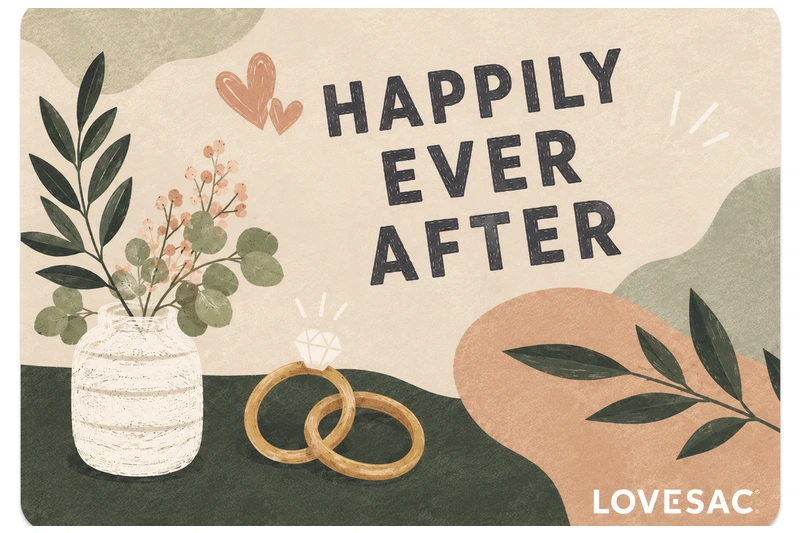
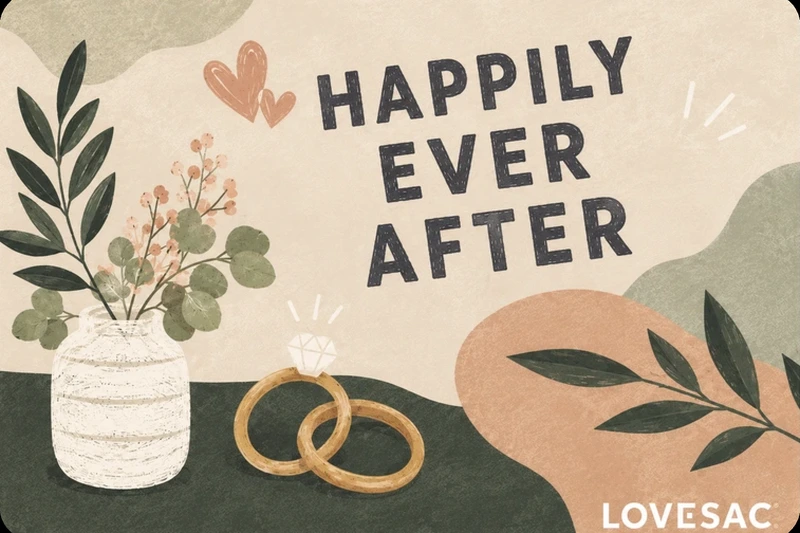
Replace all gift card art with full-bleed versions; restructure copy
Swaps all seven gift card images (eGift card + six proposed concepts) with
new full-bleed, edge-to-edge designs that have no baked-in margin, so the
uniform CSS border does all the framing instead of needing per-image
margin matching — a more robust fix than compositing white mats in code.

Also moves the "bigger gap" and "commercial opportunity" paragraphs out of
the Extending the System context-strip and into regular body copy below
it, leaving only the design-system framing inside the dark strip.

diff --git a/work/lovesac-case-study-2.html b/work/lovesac-case-study-2.html
@@ -1161,11 +1161,11 @@
     <div class="context-strip">
       <span class="tag">Extending the system</span>
       The same idea applies naturally to gift cards &mdash; another card-shaped touchpoint that could carry more of Lovesac's visual identity. Rather than a one-off redesign, this becomes a small design system: a set of credit card and gift card faces built from the same visual language.
-      <br><br>
-      <strong>There's a bigger gap here than card design.</strong> Lovesac currently offers a single branded eGift card and no physical gift card to purchase in-store. Occasion-specific options could make digital gifting feel more personal while extending that same choice to the in-store experience. More than 50% of people still prefer the tangible nature of physical gift cards for personal gifting (Mullen, 2022).
-      <br><br>
-      That makes the opportunity commercial, not just visual. Gift cards can generate upfront cash flow, incremental spend beyond the card value, and revenue from balances that go unredeemed. Globally, the gift card market is valued at approximately $1.49 trillion in 2026 and is projected to surpass $2.22 trillion by 2034 (Fortune Business Insights, 2026).
     </div>
+
+    <p class="nav-note" style="margin-top:32px;"><strong>There's a bigger gap here than card design.</strong> Lovesac currently offers a single branded eGift card and no physical gift card to purchase in-store. Occasion-specific options could make digital gifting feel more personal while extending that same choice to the in-store experience. More than 50% of people still prefer the tangible nature of physical gift cards for personal gifting (Mullen, 2022).</p>
+
+    <p class="nav-note" style="margin-top:20px;">That makes the opportunity commercial, not just visual. Gift cards can generate upfront cash flow, incremental spend beyond the card value, and revenue from balances that go unredeemed. Globally, the gift card market is valued at approximately $1.49 trillion in 2026 and is projected to surpass $2.22 trillion by 2034 (Fortune Business Insights, 2026).</p>
 
     <div class="card-compare triple" style="margin-top:24px;">
       <div class="card-compare-col">
